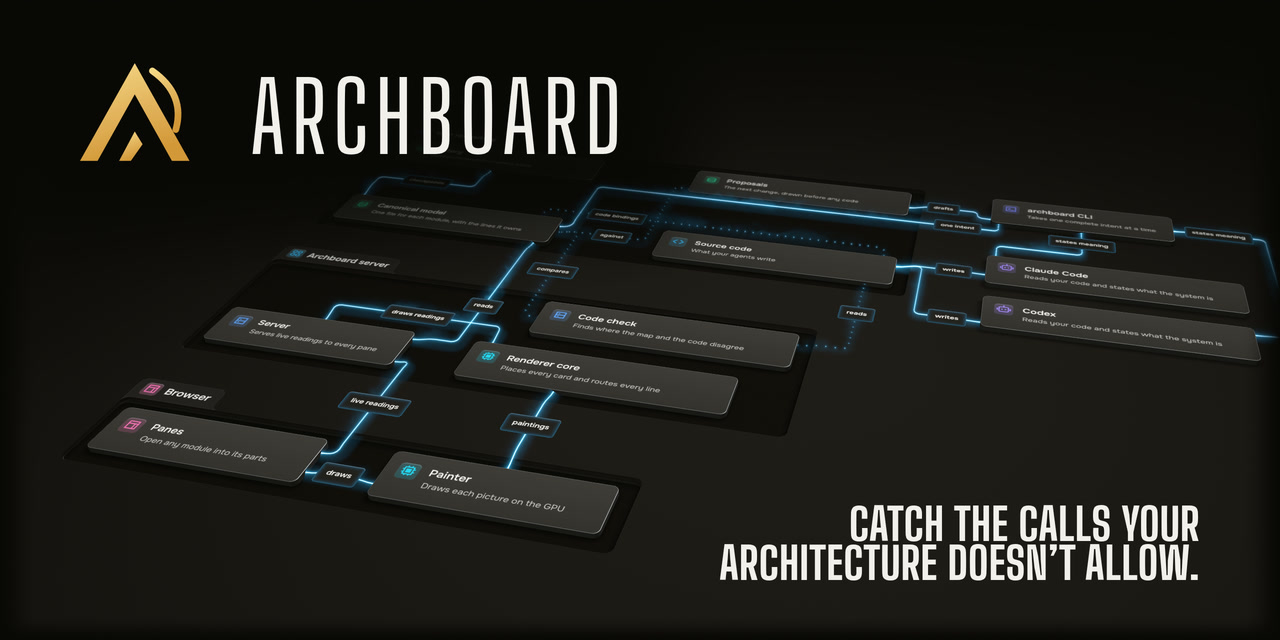
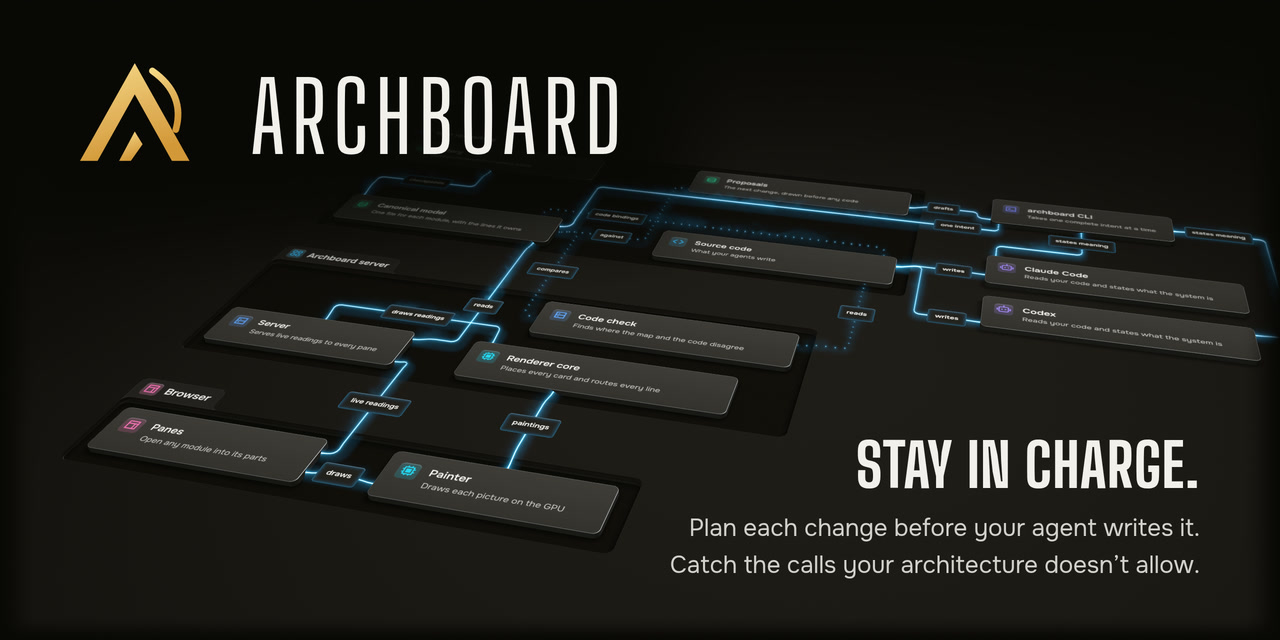
feat(readme): put a headline and a lead in the social card's corner
The social card's lower right corner reads "Stay in charge." in the
display face, over two lines in the body face: "Plan each change before
your agent writes it." and "Catch the calls your architecture doesn't
allow." The words are right-aligned to the logo's margin.

The take now also fails when the body face does not load, because the
lead is set in it.

Refs: TASK-625

Changed region(s): [[0.5312, 0.6875, 0.9375, 0.9062]]

diff --git a/scripts/readme-assets/banner.ts b/scripts/readme-assets/banner.ts
@@ -1,5 +1,6 @@
 // The banner and the social card: the marketing site's hero table, with the lockup beside it or
-// above it, on the site's ground. The social card also sets a line in its lower right corner.
+// above it, on the site's ground. The social card also sets a headline and a lead in its lower
+// right corner.
 //
 // The site's hero (site/src/scripts/hero) lays Archboard's drawing of the site's own model on a
 // table in perspective. It raises each card as a tile and draws each line as a beam of light. The
@@ -43,6 +44,12 @@ interface Box {
 	readonly height: number;
 }
 
+/** Words on the page and their font size, in CSS pixels. */
+interface Words {
+	readonly text: string;
+	readonly size: number;
+}
+
 /** Where one picture puts the table and the lockup. stage/banner.html reads it. */
 interface Layout {
 	/** The page's size, in CSS pixels. */
@@ -58,13 +65,14 @@ interface Layout {
 	/** The lockup: its left edge and its vertical middle, and the name's font size. */
 	readonly lockup: { readonly left: number; readonly middle: number; readonly size: number };
 	/**
-	 * A line in the lower right corner, set as the site sets its headline: its text, which breaks
-	 * where it holds a newline, its font size, and how far it stands from the right and bottom edges.
-	 * The table neither fits the picture around it nor darkens the picture behind it.
+	 * Words in the lower right corner, set as the site sets its words: a headline in the display face
+	 * over a lead in the body face, which breaks where its text holds a newline. Each has its font
+	 * size. The corner says how far the words stand from the right and bottom edges. The table
+	 * neither fits the picture around them nor darkens the picture behind them.
 	 */
-	readonly line: {
-		readonly text: string;
-		readonly size: number;
+	readonly corner: {
+		readonly title: Words;
+		readonly lead: Words;
 		readonly right: number;
 		readonly bottom: number;
 	} | null;
@@ -89,7 +97,7 @@ const BANNER: Layout = {
 	height: 724,
 	canvas: { left: 637, top: -313, width: 1560, height: 1000 },
 	lockup: { left: 150, middle: 362, size: 120 },
-	line: null,
+	corner: null,
 	fade: { left: 0.12, foot: 0.1 },
 	above: false,
 };
@@ -97,8 +105,7 @@ const BANNER: Layout = {
 /**
  * GitHub's social preview and the site's link preview, 2:1: the site's hero in small. The lockup
  * stands where the hero's words stand, and the table fills the card under it. Where the card ends,
- * the table's own edge fades it into the ground. The line in the lower right corner says what the
- * check catches, because the page's title already says what Archboard is for. It stands on the
+ * the table's own edge fades it into the ground. The words in the lower right corner stand on the
  * ground below the table's right half.
  */
 const SOCIAL: Layout = {
@@ -106,9 +113,12 @@ const SOCIAL: Layout = {
 	height: 640,
 	canvas: { left: 0, top: 0, width: 1280, height: 640 },
 	lockup: { left: 80, middle: 112, size: 96 },
-	line: {
-		text: "Catch the calls your\narchitecture doesn’t allow.",
-		size: 44,
+	corner: {
+		title: { text: "Stay in charge.", size: 60 },
+		lead: {
+			text: "Plan each change before your agent writes it.\nCatch the calls your architecture doesn’t allow.",
+			size: 24,
+		},
 		right: 80,
 		bottom: 56,
 	},
@@ -128,8 +138,11 @@ const FILES = {
 	social: "docs/assets/archboard-social-card.jpg",
 } as const;
 
-/** How the page's picture went, and which faces did not load. */
-const DrawnSchema = z.object({ painted: z.string(), display: z.boolean() });
+/** How the page's picture went, and which of its faces loaded. */
+const DrawnSchema = z.object({ painted: z.string(), faces: z.array(z.string()) });
+
+/** The faces the page sets its words in: the lockup and the headlines, and the leads. */
+const FACES = ["Archboard Display", "Archboard Onest"] as const;
 
 /** An expression that is true once the page painted the picture and drew it, or gave up. */
 const DRAWN_EXPRESSION = `(() => {
@@ -143,7 +156,7 @@ const DRAWN_SCRIPT = `(async () => {
 	await new Promise((done) => requestAnimationFrame(() => requestAnimationFrame(done)));
 	return {
 		painted: document.body.dataset.painted,
-		display: [...document.fonts].some((face) => face.family.includes("Archboard Display") && face.status === "loaded"),
+		faces: [...document.fonts].filter((face) => face.status === "loaded").map((face) => face.family.replaceAll('"', "")),
 	};
 })()`;
 
@@ -181,7 +194,7 @@ async function serveCheckout(): Promise<ViteDevServer> {
  * @param origin Where Vite serves the checkout.
  * @param layout The layout.
  * @param out Where the picture goes.
- * @throws {Error} When the page did not draw the picture, or the display face did not load.
+ * @throws {Error} When the page did not draw the picture, or a face of its words did not load.
  */
 async function photograph(
 	browser: Browser,
@@ -204,7 +217,8 @@ async function photograph(
 	if (drawn.painted !== "true") {
 		throw new Error(RECOVERY[drawn.painted] ?? `The page said ${drawn.painted}.`);
 	}
-	if (!drawn.display) throw new Error("The banner page did not load Archboard Display.");
+	const missing = FACES.filter((face) => !drawn.faces.includes(face));
+	if (missing.length > 0) throw new Error(`The banner page did not load ${missing.join(" and ")}.`);
 	await window.screenshot(out);
 }
 
@@ -268,7 +282,7 @@ const banner: Producer = {
 	plan: [
 		"Paint the site's pictures with bun site/scripts/paint.ts.",
 		"Serve the checkout with Vite, and open stage/banner.html, which runs the site's hero table, in Chromium with SwiftShader's WebGL2 and reduced motion.",
-		`Draw the banner, ${BANNER.width}x${BANNER.height} with the lockup beside the table, and the social card, ${SOCIAL.width}x${SOCIAL.height} with the lockup above it and the line in its lower right corner, at ${PIXEL_RATIO} pixels per CSS pixel.`,
+		`Draw the banner, ${BANNER.width}x${BANNER.height} with the lockup beside the table, and the social card, ${SOCIAL.width}x${SOCIAL.height} with the lockup above it and words in its lower right corner, at ${PIXEL_RATIO} pixels per CSS pixel.`,
 		"Scale each picture down. Encode the banner as a lossless still WebP in docs/readme and the social card as a JPEG in docs/assets.",
 	],
 	make: makeBanner,

diff --git a/scripts/readme-assets/stage/banner.html b/scripts/readme-assets/stage/banner.html
@@ -1,12 +1,13 @@
 <!doctype html>
 <!--
 	The banner and the social card: the marketing site's hero table and the lockup on the site's
-	ground, and the line that the social card sets in its corner. The page runs the hero's own code
+	ground, and the words that the social card sets in its corner. The page runs the hero's own code
 	(site/src/scripts/hero), so Vite serves it from the checkout. The take opens it with reduced
 	motion, so the table draws its finished entry in one still frame. The take gives the layout as
-	JSON in the query (banner.ts says what each value does). The body's data-painted says how the picture went: "true" once it is painted, "failed"
-	when the painter did not paint it, and "no-webgl" when the browser has no WebGL2. The canvas
-	takes the class is-live once a frame with the picture is drawn.
+	JSON in the query (banner.ts says what each value does). The body's data-painted says how the
+	picture went: "true" once it is painted, "failed" when the painter did not paint it, and
+	"no-webgl" when the browser has no WebGL2. The canvas takes the class is-live once a frame with
+	the picture is drawn.
 -->
 <html>
 	<head>
@@ -34,19 +35,31 @@
 				transform: translateY(-50%);
 				--foreground: var(--ink);
 			}
-			/* The line breaks where its text does, and ends at its right edge. */
-			.line {
+			/* A headline in the display face over a lead in the body face, as the site sets them, each
+			   line ending at the corner's right edge. The lead breaks where its text does. */
+			.corner {
 				position: absolute;
-				margin: 0;
-				white-space: pre-line;
 				text-align: right;
+			}
+			.corner p {
+				margin: 0;
+			}
+			.corner .display {
+				margin-bottom: 0.3em;
+			}
+			.corner .lead {
+				max-width: none;
+				white-space: pre-line;
 			}
 		</style>
 	</head>
 	<body>
 		<canvas class="table" data-table></canvas>
 		<div class="lockup" data-lockup></div>
-		<p class="display line" data-line hidden></p>
+		<div class="corner" data-corner hidden>
+			<p class="display" data-title></p>
+			<p class="lead" data-lead></p>
+		</div>
 		<script type="module">
 			import { lightTable } from "../../../site/src/scripts/hero/table.ts";
 			import { paintPicture } from "../../../site/src/scripts/hero/picture.ts";
@@ -55,7 +68,7 @@
 			const layout = JSON.parse(new URLSearchParams(location.search).get("layout"));
 			const canvas = document.querySelector("[data-table]");
 			const lockup = document.querySelector("[data-lockup]");
-			const line = document.querySelector("[data-line]");
+			const corner = document.querySelector("[data-corner]");
 			for (const side of ["left", "top", "width", "height"])
 				canvas.style.setProperty(side, `${layout.canvas[side]}px`);
 			canvas.style.setProperty("--fade-left", `${layout.fade.left * 100}%`);
@@ -63,12 +76,19 @@
 			lockup.style.setProperty("left", `${layout.lockup.left}px`);
 			lockup.style.setProperty("top", `${layout.lockup.middle}px`);
 			lockup.innerHTML = lockupMarkup(layout.lockup.size);
-			if (layout.line) {
-				line.textContent = layout.line.text;
-				line.style.setProperty("font-size", `${layout.line.size}px`);
-				line.style.setProperty("right", `${layout.line.right}px`);
-				line.style.setProperty("bottom", `${layout.line.bottom}px`);
-				line.hidden = false;
+			if (layout.corner) {
+				const { title, lead, right, bottom } = layout.corner;
+				for (const [selector, words] of [
+					["[data-title]", title],
+					["[data-lead]", lead],
+				]) {
+					const text = corner.querySelector(selector);
+					text.textContent = words.text;
+					text.style.setProperty("font-size", `${words.size}px`);
+				}
+				corner.style.setProperty("right", `${right}px`);
+				corner.style.setProperty("bottom", `${bottom}px`);
+				corner.hidden = false;
 			}
 			// The words stand where they stay before the table fits the picture to them.
 			await Promise.all([...document.fonts].map((face) => face.load().catch(() => undefined)));

diff --git a/site/DESIGN.md b/site/DESIGN.md
@@ -429,7 +429,7 @@ Every diagram on the page is Archboard renderer output in the dark theme. The dr
 - `docs/readme/web-shop-dark.svg`, `docs/readme/sequence-dark.svg` and `docs/readme/architecture-dark.svg` come from the README's asset build. They are the example shop, the "Place an order" sequence and Archboard's own architecture.
 - `site/src/diagrams/checkout-api.svg`, `inventory-service.svg`, `live-events.svg`, `nightly-batch.svg`, `place-order-flowchart.svg`, `place-order-sequence.svg` and `queued-fulfilment.svg` come from `site/scripts/render-diagrams.sh`. It runs a private Archboard server over a copy of the example shop and calls `archboard model render`. The two `place-order` drawings come last. Before them, the script rewrites the copy's "Place an order" flow from `site/scripts/place-order-logic.changes.json`. With that flow, the Grammars demo shows its stock and payment decisions and its receipt loop. The walkthrough keeps the README's sequence, because the example's walkthrough narrates that flow. The script leaves out each drawing's render recipe, because the recipe names the disposable copy and no embed check can resolve it. Draw them again after a renderer change and commit them.
 - The hero's table shows `site/model`, a small model made for the site. The model's figure shows the top reading of `.archboard/vault`, including its dependency relationships, with the renderer's legend under it. The product's painter paints both live (ADR 0071). `site/scripts/paint.ts` writes their paintings at build time into `site/src/paintings/`, which Git ignores, because a painting belongs to the painter of the same core build. The hero's painting has no ground and no lines, and its cards are flat, because the hero's shader draws the depth and every line. The figure's painting is the app's own look. The figure is as wide as the page allows and no taller than the screen, so the whole picture is in view. Where the screen is wide, it reaches past the text's column. The painter is the app's, in the app's order: WebGPU, then WebGL2, then the CPU (ADR 0074). Once the figure's foot is in view, the painter brings the picture in with the app's own entrance. The picture is large. A frame of the entrance costs about one refresh on WebGL2 and more on the CPU. So the picture comes in on either GPU, and it stands whole on the CPU and with reduced motion. Its traffic runs only on WebGPU. Without script, and wherever no painter draws, the figure shows the renderer's SVG of the same reading, which `site/scripts/paint.ts` writes beside the painting. The caption links to that SVG at full size, so readers can inspect the diagram and legend on a narrow screen.
-- The one raster is `docs/assets/archboard-social-card.jpg`, the social card, used as `og:image` and `twitter:image`. The README asset kit draws it from the hero's table, with the lockup where the hero's words stand and a line in the display face in the lower right corner (`bun run readme:assets banner`).
+- The one raster is `docs/assets/archboard-social-card.jpg`, the social card, used as `og:image` and `twitter:image`. The README asset kit draws it from the hero's table, with the lockup where the hero's words stand and a headline over a lead in the lower right corner (`bun run readme:assets banner`).
 - The favicon, `site/public/favicon.svg`, is a hand-written SVG of the brand mark. The mark component draws the same shape in the page, as the shell's brand does.
 - Icons are Remix Icon line glyphs, inlined as SVG through `site/src/lib/icons.ts`. The kind chips use the icons and colours the renderer gives each kind.
 - Inline drawings get a unique id prefix so two drawings never share ids. Alt text names what the drawing shows.

diff --git a/backlog/tasks/task-625 - The-README-banner-and-the-social-card-show-the-sites-hero-table-on-Archboards-ground.md b/backlog/tasks/task-625 - The-README-banner-and-the-social-card-show-the-sites-hero-table-on-Archboards-ground.md
@@ -7,7 +7,7 @@ status: Done
 assignee:
   - '@claude'
 created_date: '2026-11-10T20:23:00Z'
-updated_date: '2026-11-10T23:01:00Z'
+updated_date: '2026-11-10T23:37:00Z'
 labels:
   - docs
   - tooling
@@ -42,6 +42,8 @@ The owner asked for new banner art and social cards based on the 3D header of th
 Verified 2026-11-10. `bun run readme:assets banner` (inside nix develop) exit 0; `bun run readme:check` lists the banner as current (the 15 other stale assets were stale before this change, measured with the old browser.ts). Ground samples: banner.webp srgb(9,8,6), the site ground; social JPEG srgb(8,9,3). The banner shows all 12 cards of site/model. Lossy WebP at quality 90 and 98 left a chroma ring and blocks in the dark ground when brightened, so the banner is lossless (488 KB). tsc, the policy lint over scripts/readme-assets, the format check and the two README policy tests pass. The site builds after its prebuild generators, and dist/index.html carries twitter:image with the same address as og:image. Vite serves the checkout with watch: null and no dependency discovery, because a watcher walked .skill-evals during the prototype.
 
 Follow-up: the social card carries a line in its lower right corner, "Catch the calls your architecture doesn’t allow.", in the site's display face at 44px. The lockup keeps its first size (96px) above the table. The line names what the check catches, because the page's og:title already says what Archboard is for. The 10 Nov launch research says to lead with what the check catches. The line stands apart from the words that the table fits under, so the table keeps its full room. The text is in the SOCIAL layout in scripts/readme-assets/banner.ts.
+
+Second follow-up: the card's corner now holds a headline over a lead, right-aligned, as the site sets its words. The headline is "Stay in charge." in the display face at 60px. The lead is "Plan each change before your agent writes it." and "Catch the calls your architecture doesn’t allow." in the body face at 24px. At X's preview width of about 506px, the lead is small but legible, and a larger lead would run into the Painter card. The take now fails when Archboard Onest does not load, as it already did for Archboard Display.
 <!-- SECTION:NOTES:END -->
 
 ## Final Summary

diff --git a/README.md b/README.md
@@ -479,4 +479,4 @@ Five packages are MIT-licensed instead, each with its own `LICENSE` file: [`code
 
 [INSTALL.md](INSTALL.md) · [TESTING.md](TESTING.md) · [CONTEXT.md](CONTEXT.md) · [Architecture decisions](docs/adr/) · [The agent skill](skills/archboard/SKILL.md) · [AGENTS.md](AGENTS.md)
 
-<sub>Archboard drew every diagram in this README. Every clip was filmed from a running Archboard server. The SVGs draw their own glyphs. The banner is the lit table of the Archboard site, which lays a drawing that Archboard made on a table in 3D, beside the logo. The GitHub social preview, the same table under the logo with one line about the check, is in <a href="docs/assets"><code>docs/assets</code></a>. Licensed under the Business Source License 1.1.</sub>
+<sub>Archboard drew every diagram in this README. Every clip was filmed from a running Archboard server. The SVGs draw their own glyphs. The banner is the lit table of the Archboard site, which lays a drawing that Archboard made on a table in 3D, beside the logo. The GitHub social preview, the same table under the logo with a few words about planning and the check, is in <a href="docs/assets"><code>docs/assets</code></a>. Licensed under the Business Source License 1.1.</sub>

diff --git a/docs/agents/readme-assets.md b/docs/agents/readme-assets.md
@@ -80,9 +80,10 @@ The banner's lockup, the mark beside the name, comes from
 `scripts/readme-assets/lockup.ts`. A test in the repository lane holds that mark
 to the one the shell draws in `apps/web/src/ui/shell/components/Brand.tsx`. The banner
 also writes `docs/assets/archboard-social-card.jpg`. It is GitHub's social preview and the
-site's link preview, with the lockup above the table as the site's hero sets its words. A line in
-its lower right corner names what the check catches: the calls that the architecture does not
-allow. The line is in the social layout in `scripts/readme-assets/banner.ts`. GitHub does
+site's link preview, with the lockup above the table as the site's hero sets its words. Its lower
+right corner holds a headline and a lead, as the site sets them: "Stay in charge.", then planning
+and the check in one sentence each. The words are in the social layout in
+`scripts/readme-assets/banner.ts`. GitHub does
 not read it from the repository: the owner uploads it by hand under Social preview in the
 repository's settings.
 
